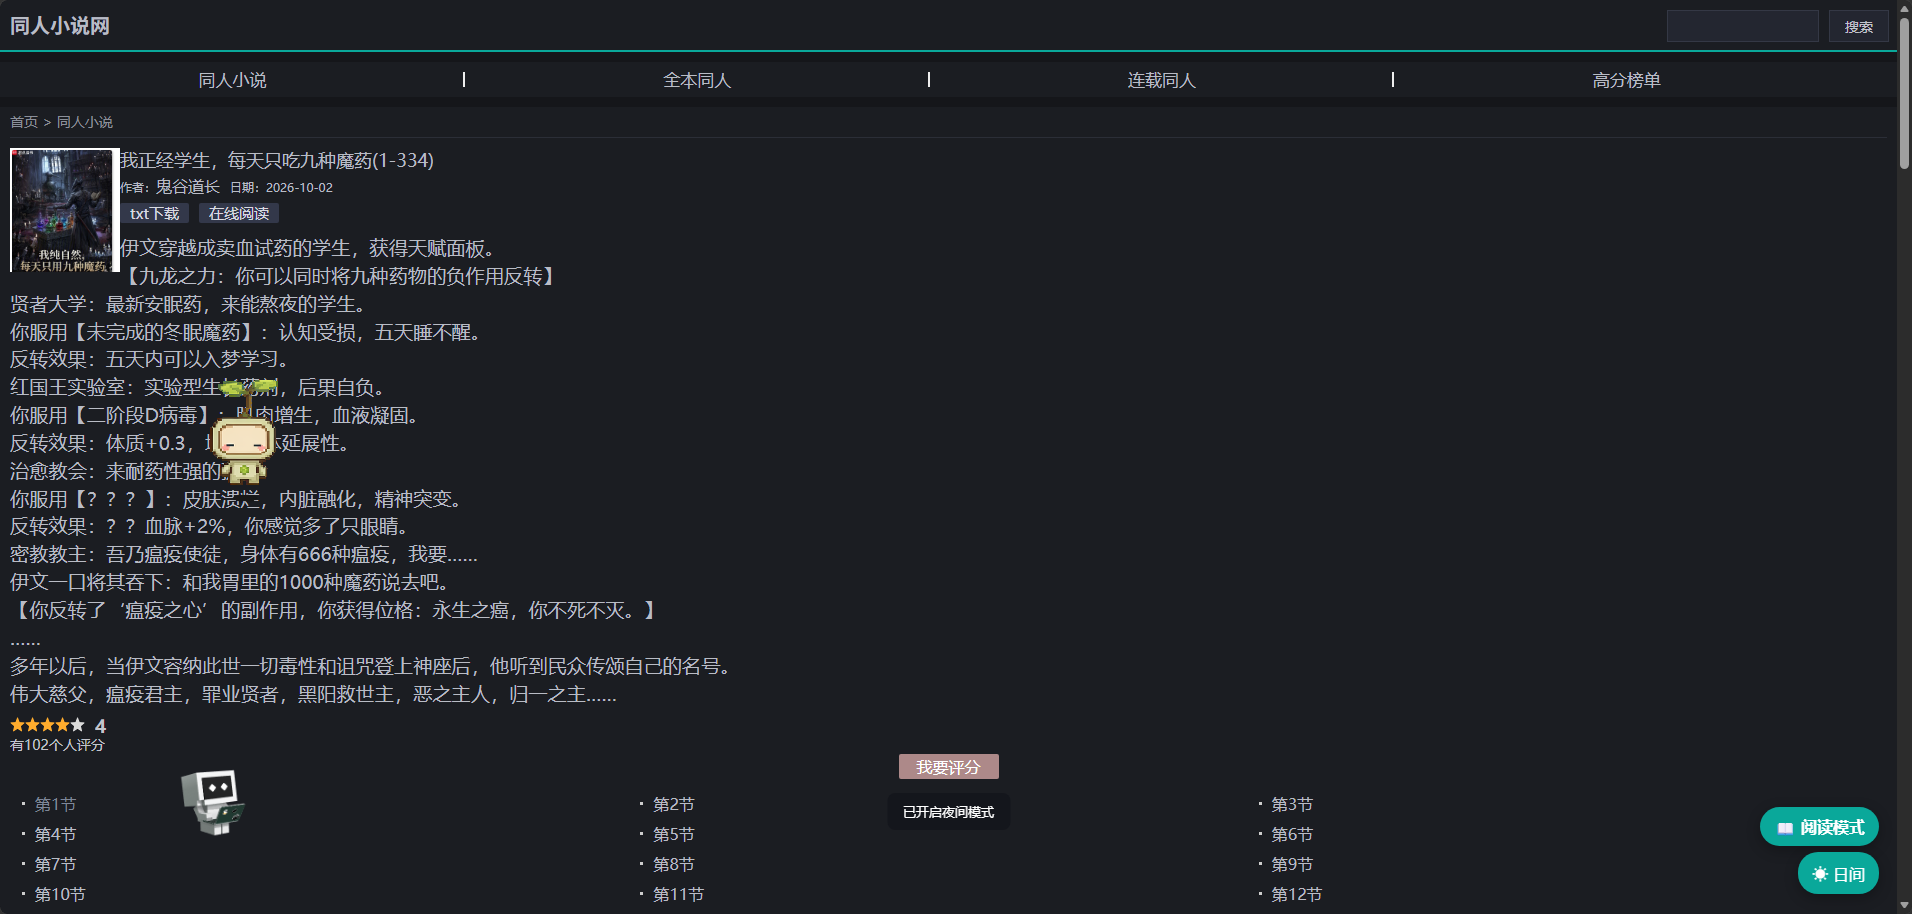
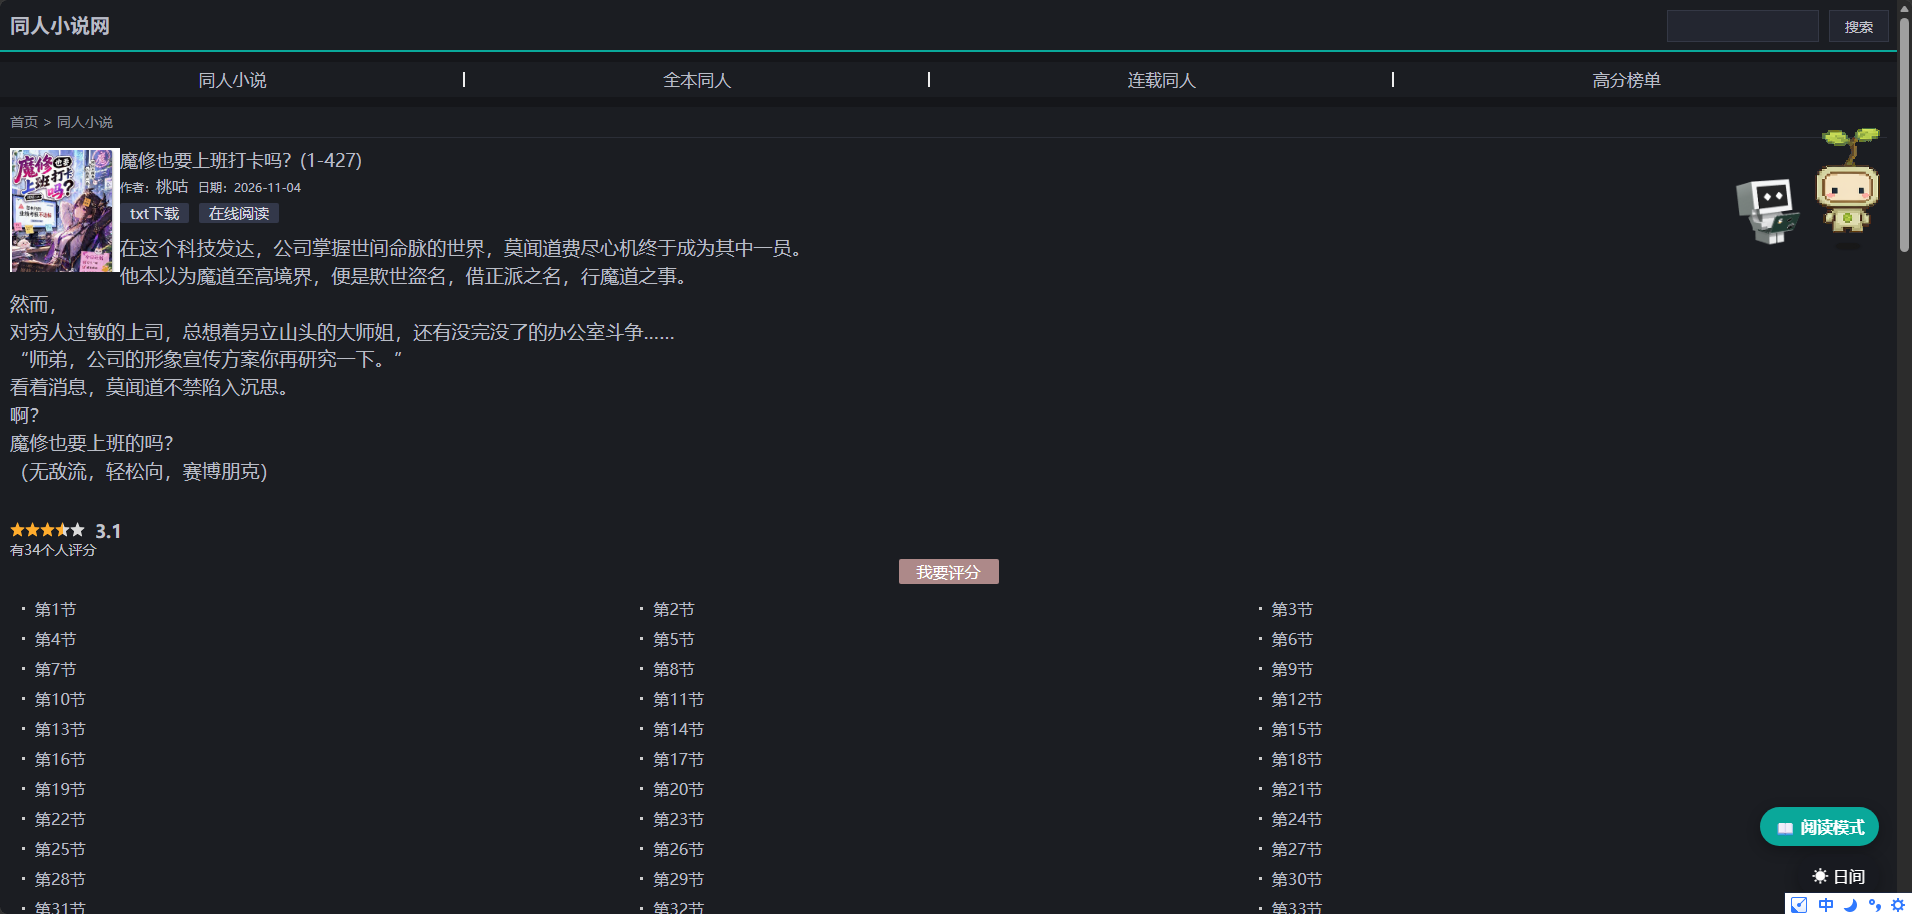
docs: 更新截图至 v1.1.0 UI（A−/A+ 按钮、设置面板精简）

diff --git a/README.md b/README.md
@@ -9,7 +9,7 @@
 
 > 这个网站阅读模式、夜间模式啥也没有。
 
-| 阅读模式（羊皮纸主题 + 设置面板） | 站点级夜间模式 |
+| 阅读模式（夜间主题 + 目录 + 设置面板） | 站点级夜间模式 |
 |---|---|
 | ![阅读模式](docs/screenshot-reading.png) | ![夜间模式](docs/screenshot-dark.png) |
 
